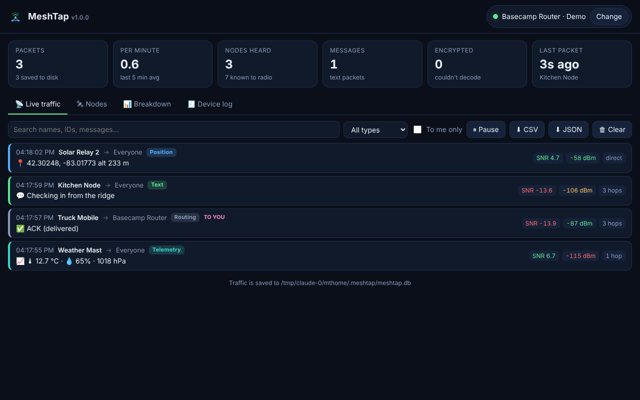
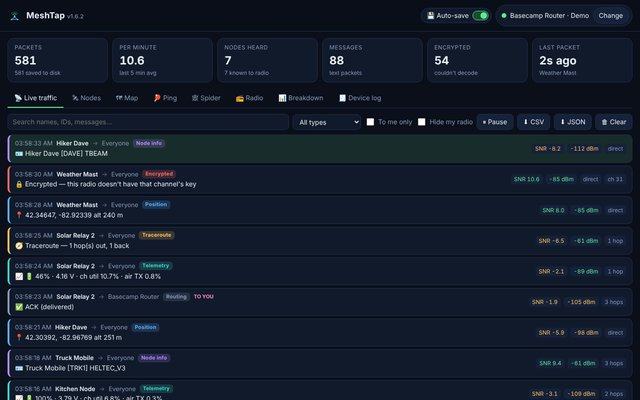
Refresh screenshots for 1.6.2
- New main image: Live traffic, Spider, Ping and Radio in one picture
- All tab screenshots retaken; added Radio name & info, WiFi setup and
  Connect → Find radios
- Pi menu tile picture updated

Claude-Session: https://claude.ai/code/session_013eymtVxTHQ6z8gR1U8tcLY

diff --git a/apps/meshtap/README.md b/apps/meshtap/README.md
@@ -26,9 +26,11 @@ MeshTap connects to your radio (USB, WiFi or Bluetooth), captures every packet i
 | **Live traffic** — every packet as it arrives<br>![Live traffic](docs/screenshots/live-traffic.png) | **Packet detail** — the full decoded packet<br>![Packet detail](docs/screenshots/packet-detail.png) |
 | **Nodes** — everyone heard, signal, battery, hops<br>![Nodes](docs/screenshots/nodes.png) | **Map** — nodes, links to your radio, your goals<br>![Map](docs/screenshots/map.png) |
 | **Ping** — round trips, success rate, Link check<br>![Ping](docs/screenshots/ping.png) | **Spider** — reach out to 7 hops, range and goals<br>![Spider](docs/screenshots/spider.png) |
-| **Radio → Settings** — every section, with hints<br>![Radio settings](docs/screenshots/radio-settings.png) | **Radio → Channels** — keys, uplink, channel link<br>![Radio channels](docs/screenshots/radio-channels.png) |
+| **Radio → Name & info** — rename, firmware, save current config<br>![Radio info](docs/screenshots/radio-info.png) | **Radio → Settings** — every section, with hints<br>![Radio settings](docs/screenshots/radio-settings.png) |
+| **Radio → Network** — one-step WiFi setup<br>![WiFi setup](docs/screenshots/radio-wifi.png) | **Radio → Channels** — keys, uplink, channel link<br>![Radio channels](docs/screenshots/radio-channels.png) |
 | **Radio → Clone & backup** — save, restore, clone, factory reset<br>![Clone and backup](docs/screenshots/radio-clone.png) | **Breakdown** — traffic over time, by type, by node<br>![Breakdown](docs/screenshots/breakdown.png) |
-| **Device log** — MeshTap events and radio debug lines<br>![Device log](docs/screenshots/device-log.png) | **Connect** — USB/serial, WiFi, Bluetooth, serial text, demo<br>![Connect](docs/screenshots/connect.png) |
+| **Connect** — USB/serial, WiFi, Bluetooth, serial text, demo<br>![Connect](docs/screenshots/connect.png) | **Connect → WiFi** — find radios on your network, click to connect<br>![Find radios](docs/screenshots/connect-wifi.png) |
+| **Device log** — MeshTap events and radio debug lines<br>![Device log](docs/screenshots/device-log.png) | |
 
 <p align="center"><b>On a phone</b> (run with <code>--lan</code>)<br><img src="docs/screenshots/phone.png" width="300" alt="MeshTap on a phone"></p>
 
